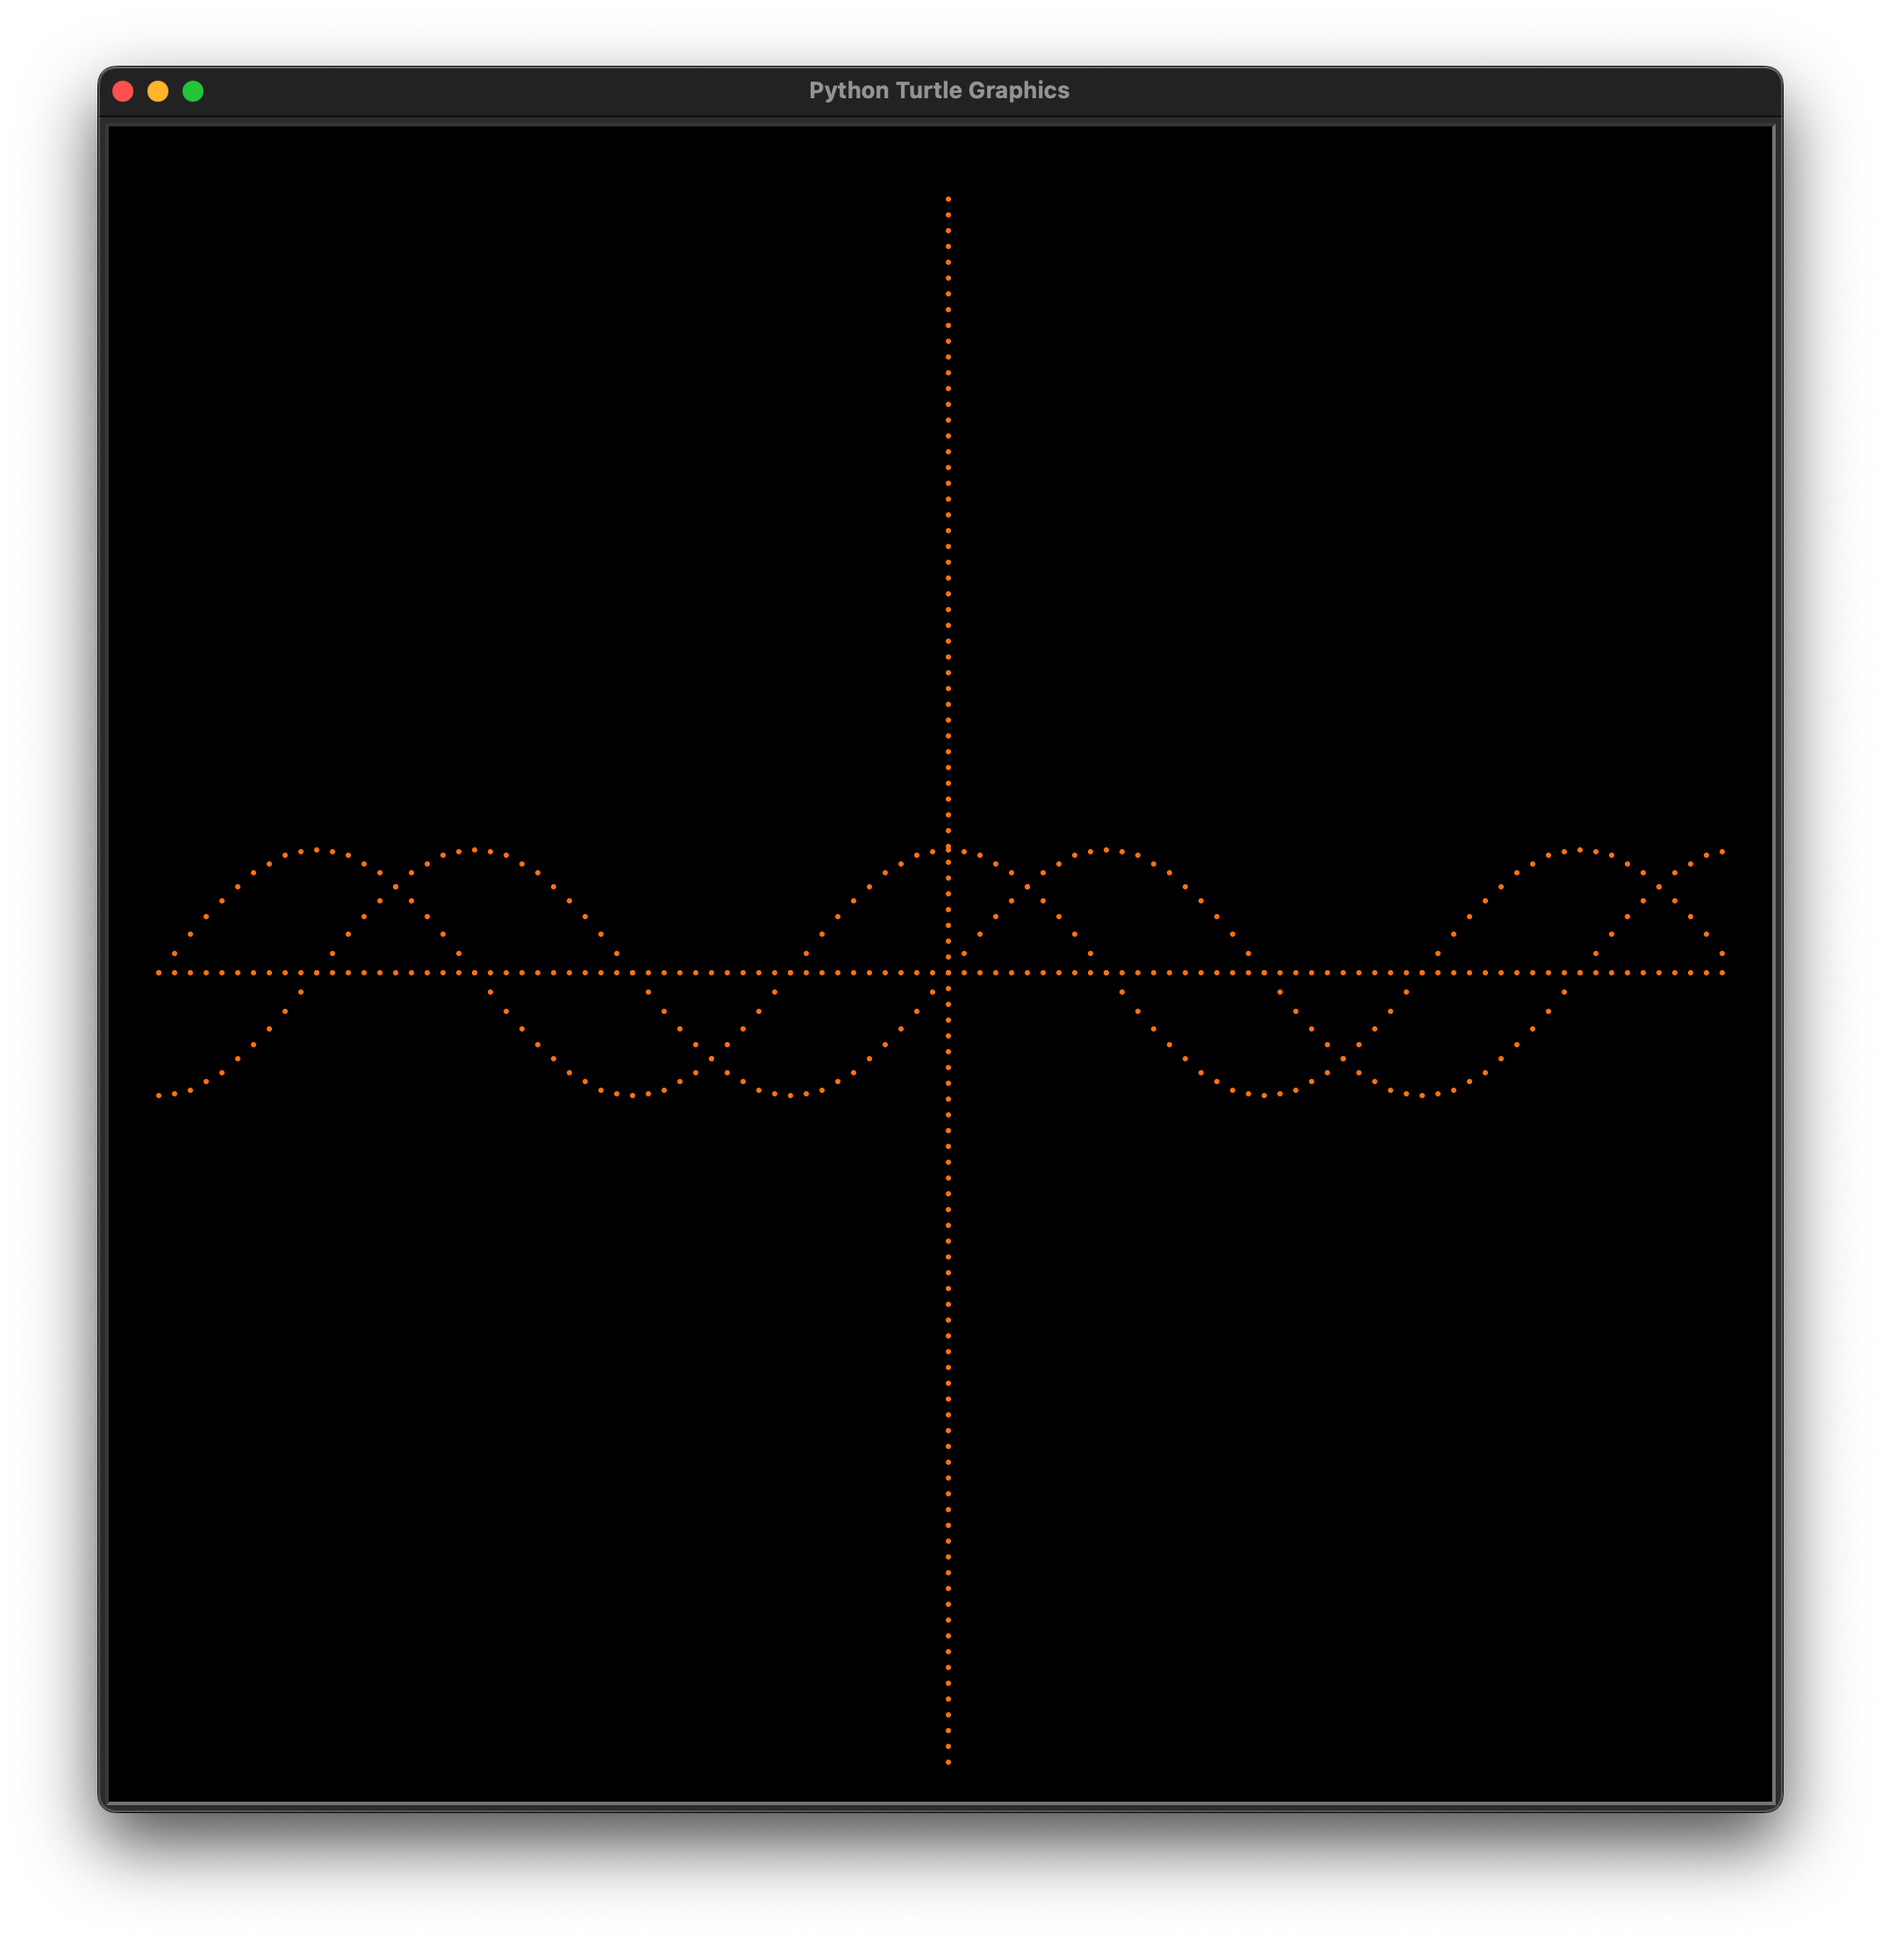
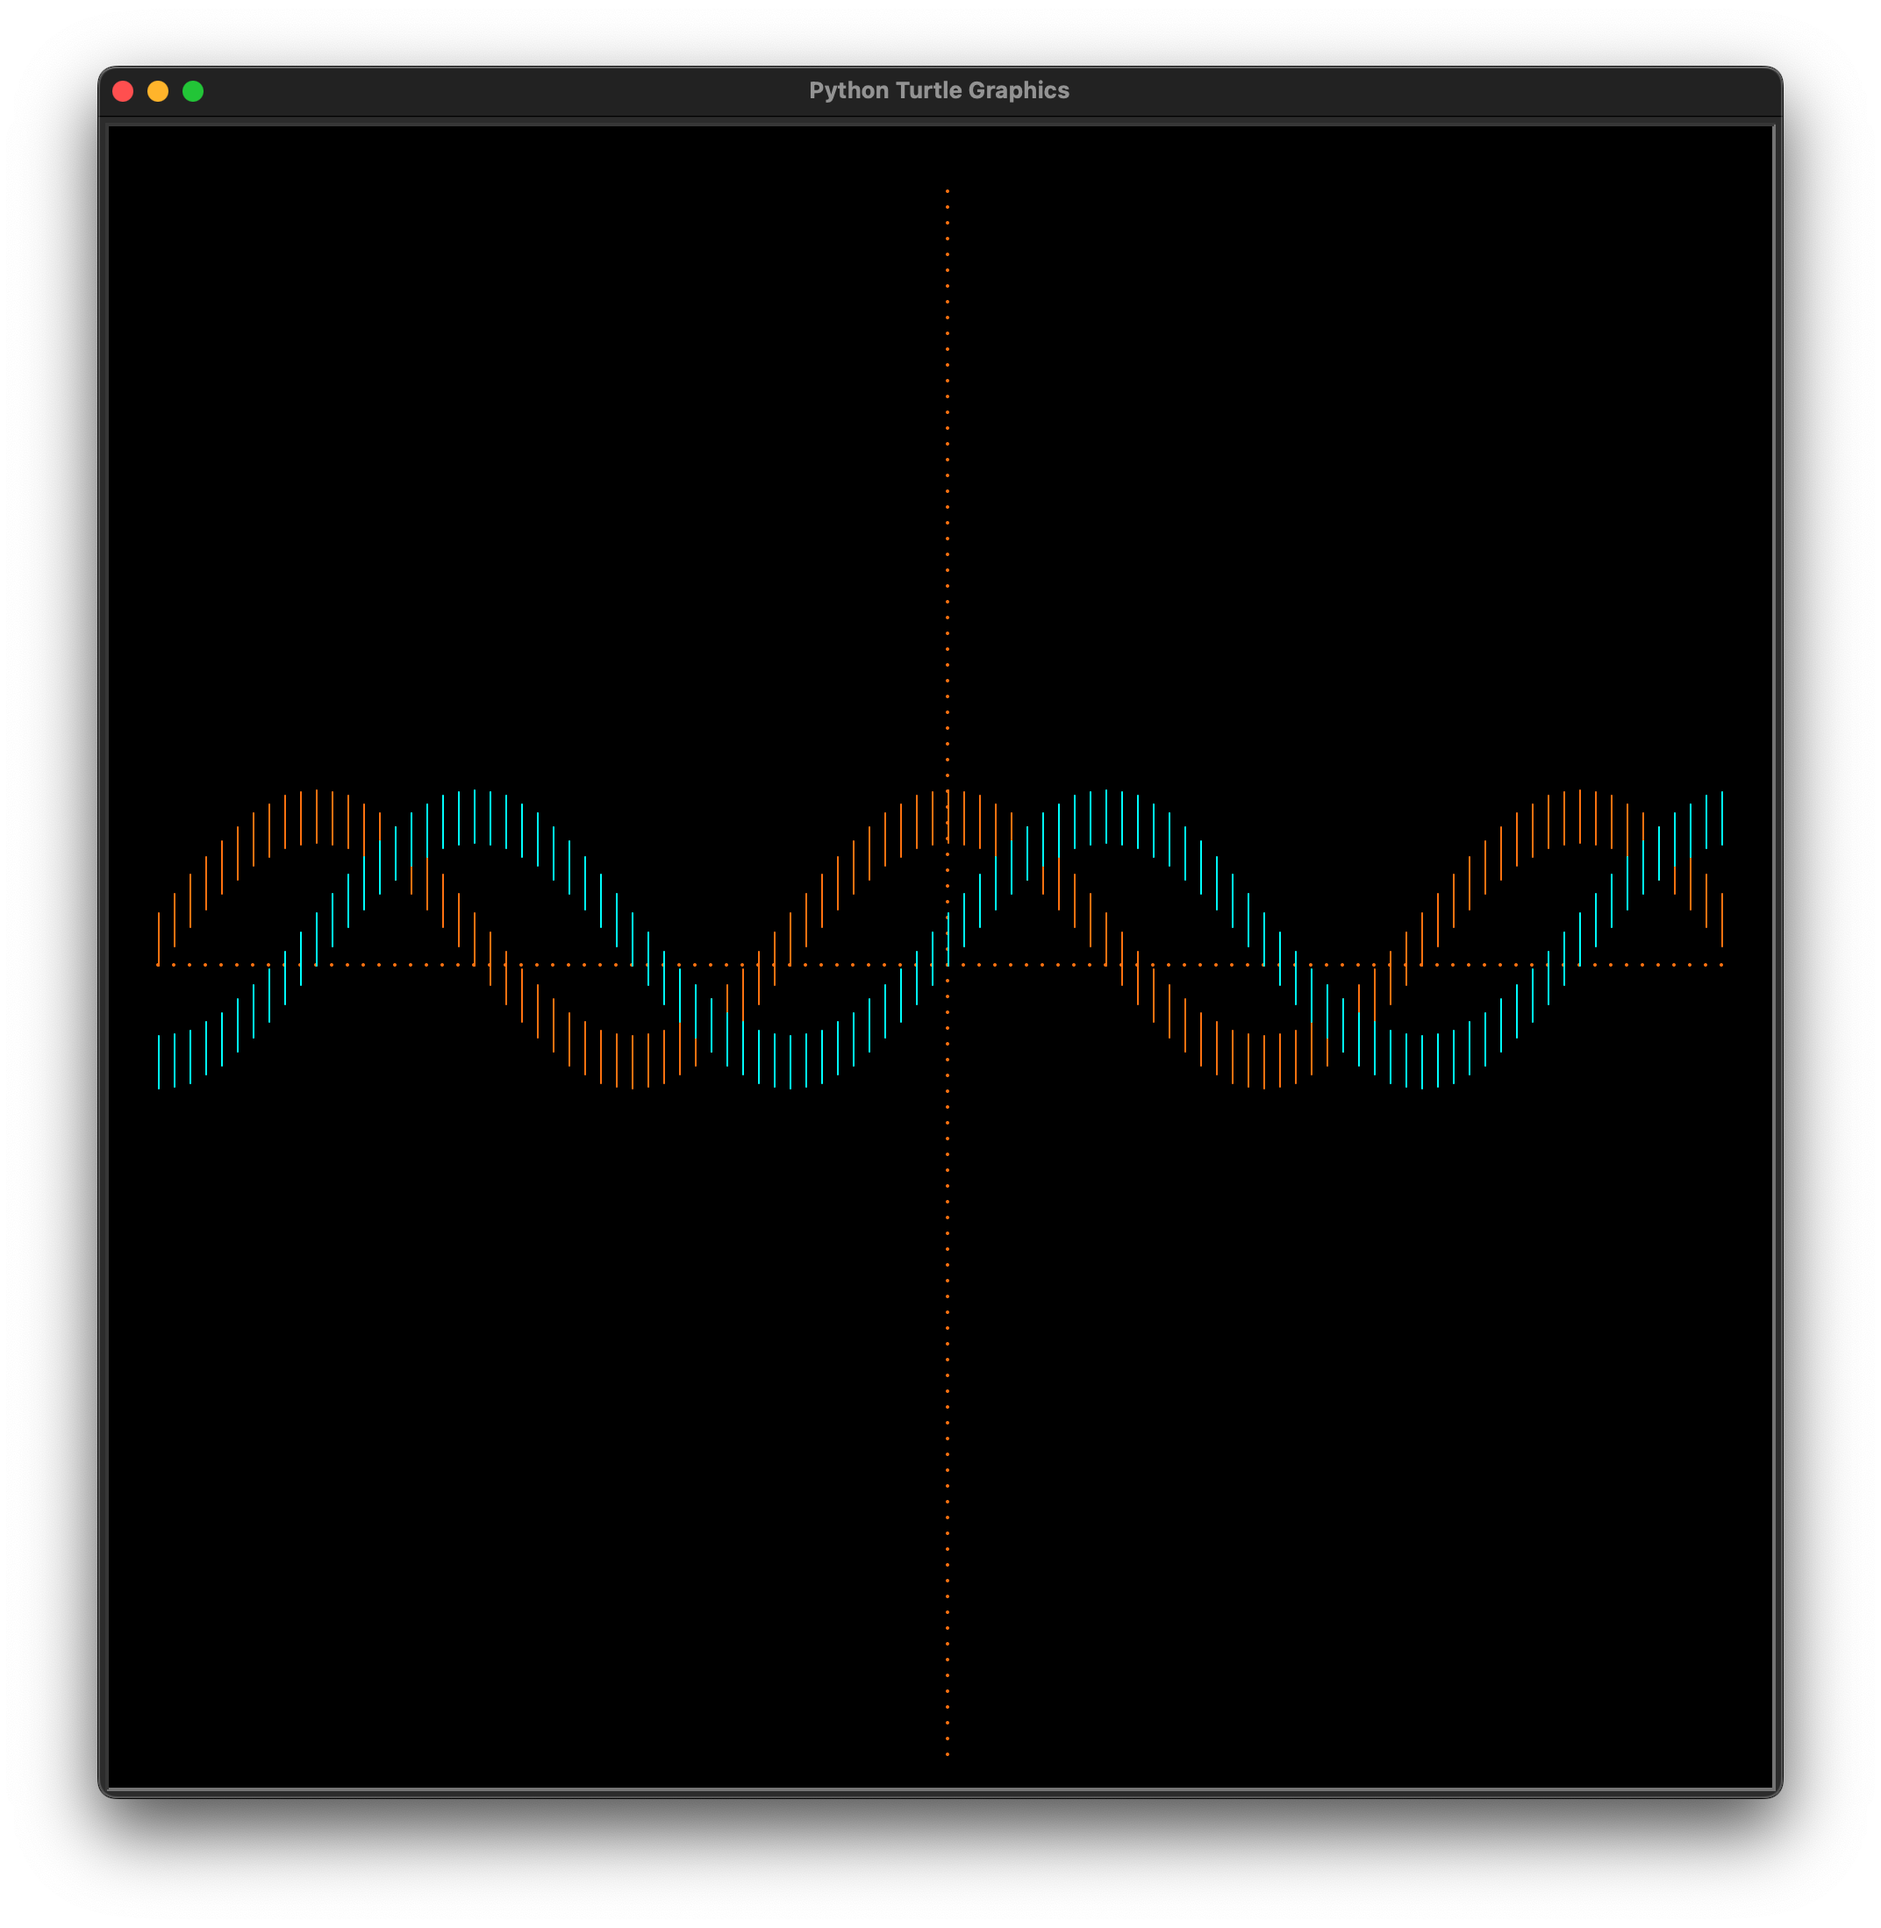
Update trig plot styling

diff --git a/trig-plot.py b/trig-plot.py
@@ -11,7 +11,17 @@ def main(amplitude = 100, num_points = 100, extent = 440, pen_color = (1, 1/2, 0
         turtle.penup()
         turtle.goto(x, y)
         turtle.pendown()
-        turtle.dot(3, color)
+        turtle.dot(2, pen_color)
+
+    # Function to draw a point at a given (x, y) coordinate
+    def draw_tack(x, y, color=pen_color):
+        turtle.penup()
+        turtle.goto(x, y)
+        turtle.pendown()
+        turtle.seth(90)
+        turtle.pencolor(color)
+        turtle.forward(30)
+        turtle.pencolor(pen_color)
 
     # Set up the turtle
     turtle.hideturtle()
@@ -26,11 +36,11 @@ def main(amplitude = 100, num_points = 100, extent = 440, pen_color = (1, 1/2, 0
 
     # Draw Cosine Curve
     for angle in point_range:
-        draw_point(angle, amplitude * math.cos(math.radians(angle)))
+        draw_tack(angle, amplitude * math.cos(math.radians(angle)))
 
     # Draw Sine Curve
     for angle in point_range:
-        draw_point(angle, amplitude * math.sin(math.radians(angle)))
+        draw_tack(angle, amplitude * math.sin(math.radians(angle)), color="cyan")
 
     turtle.done()
 
